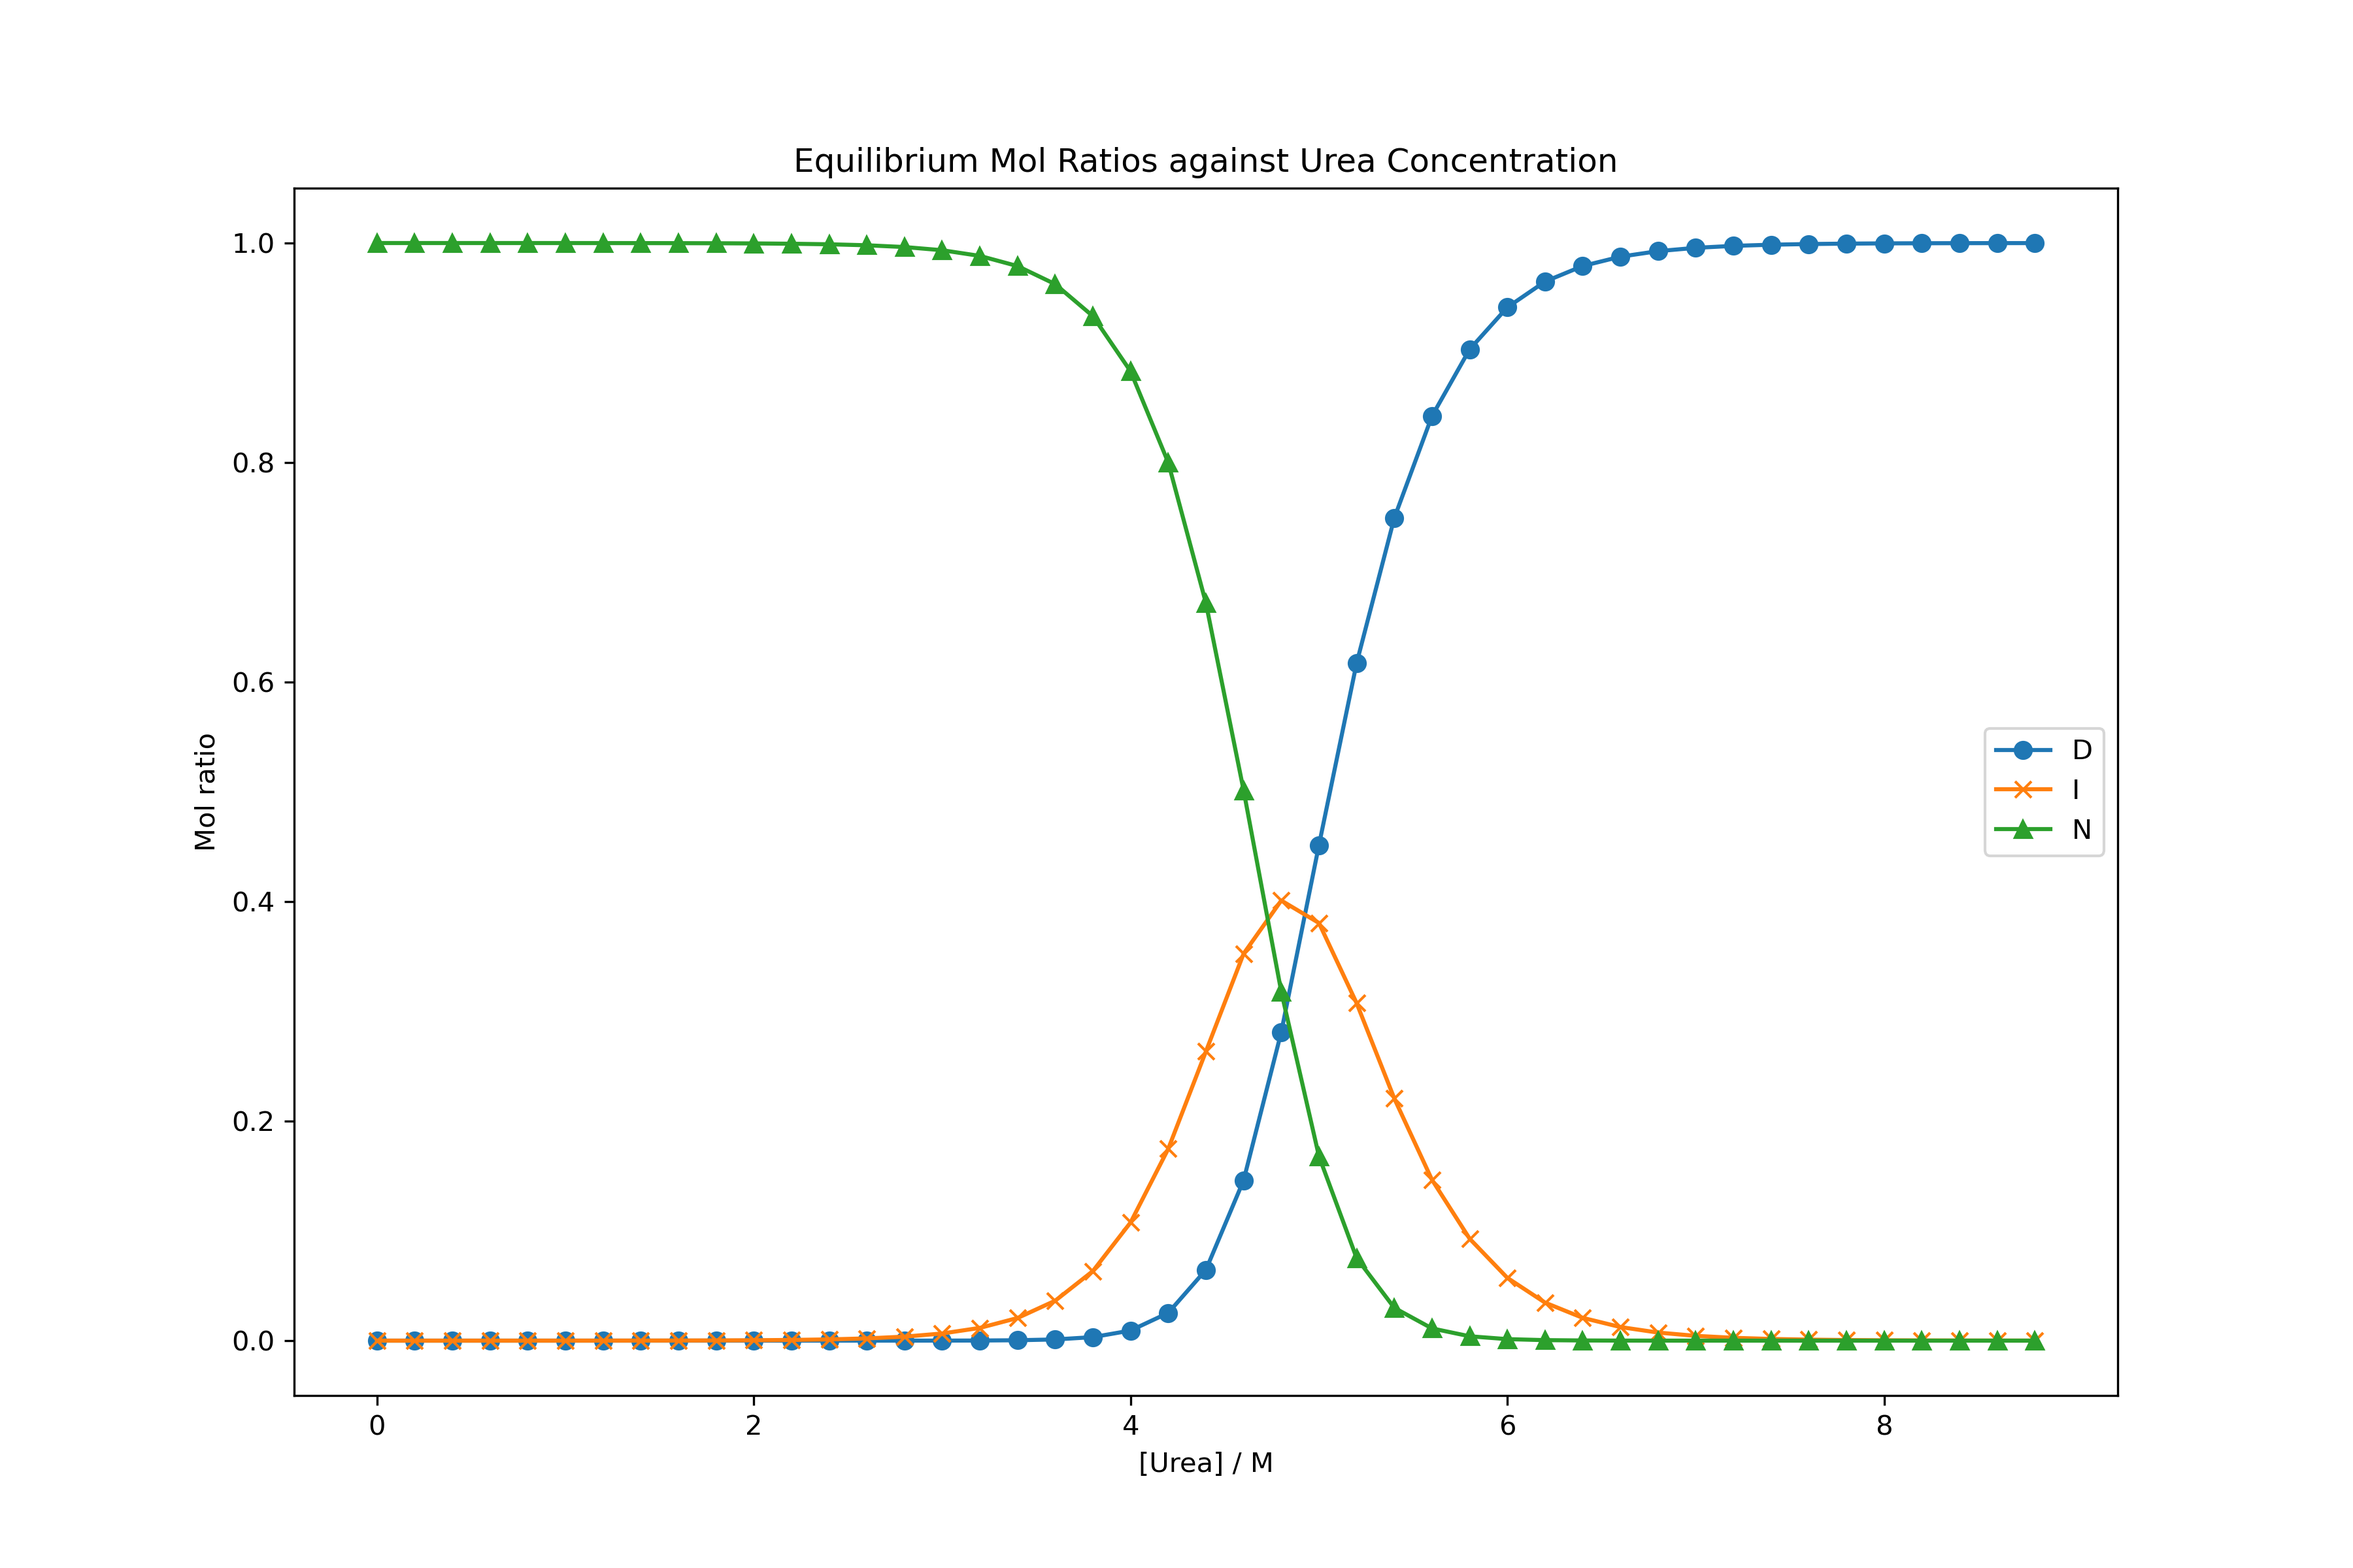
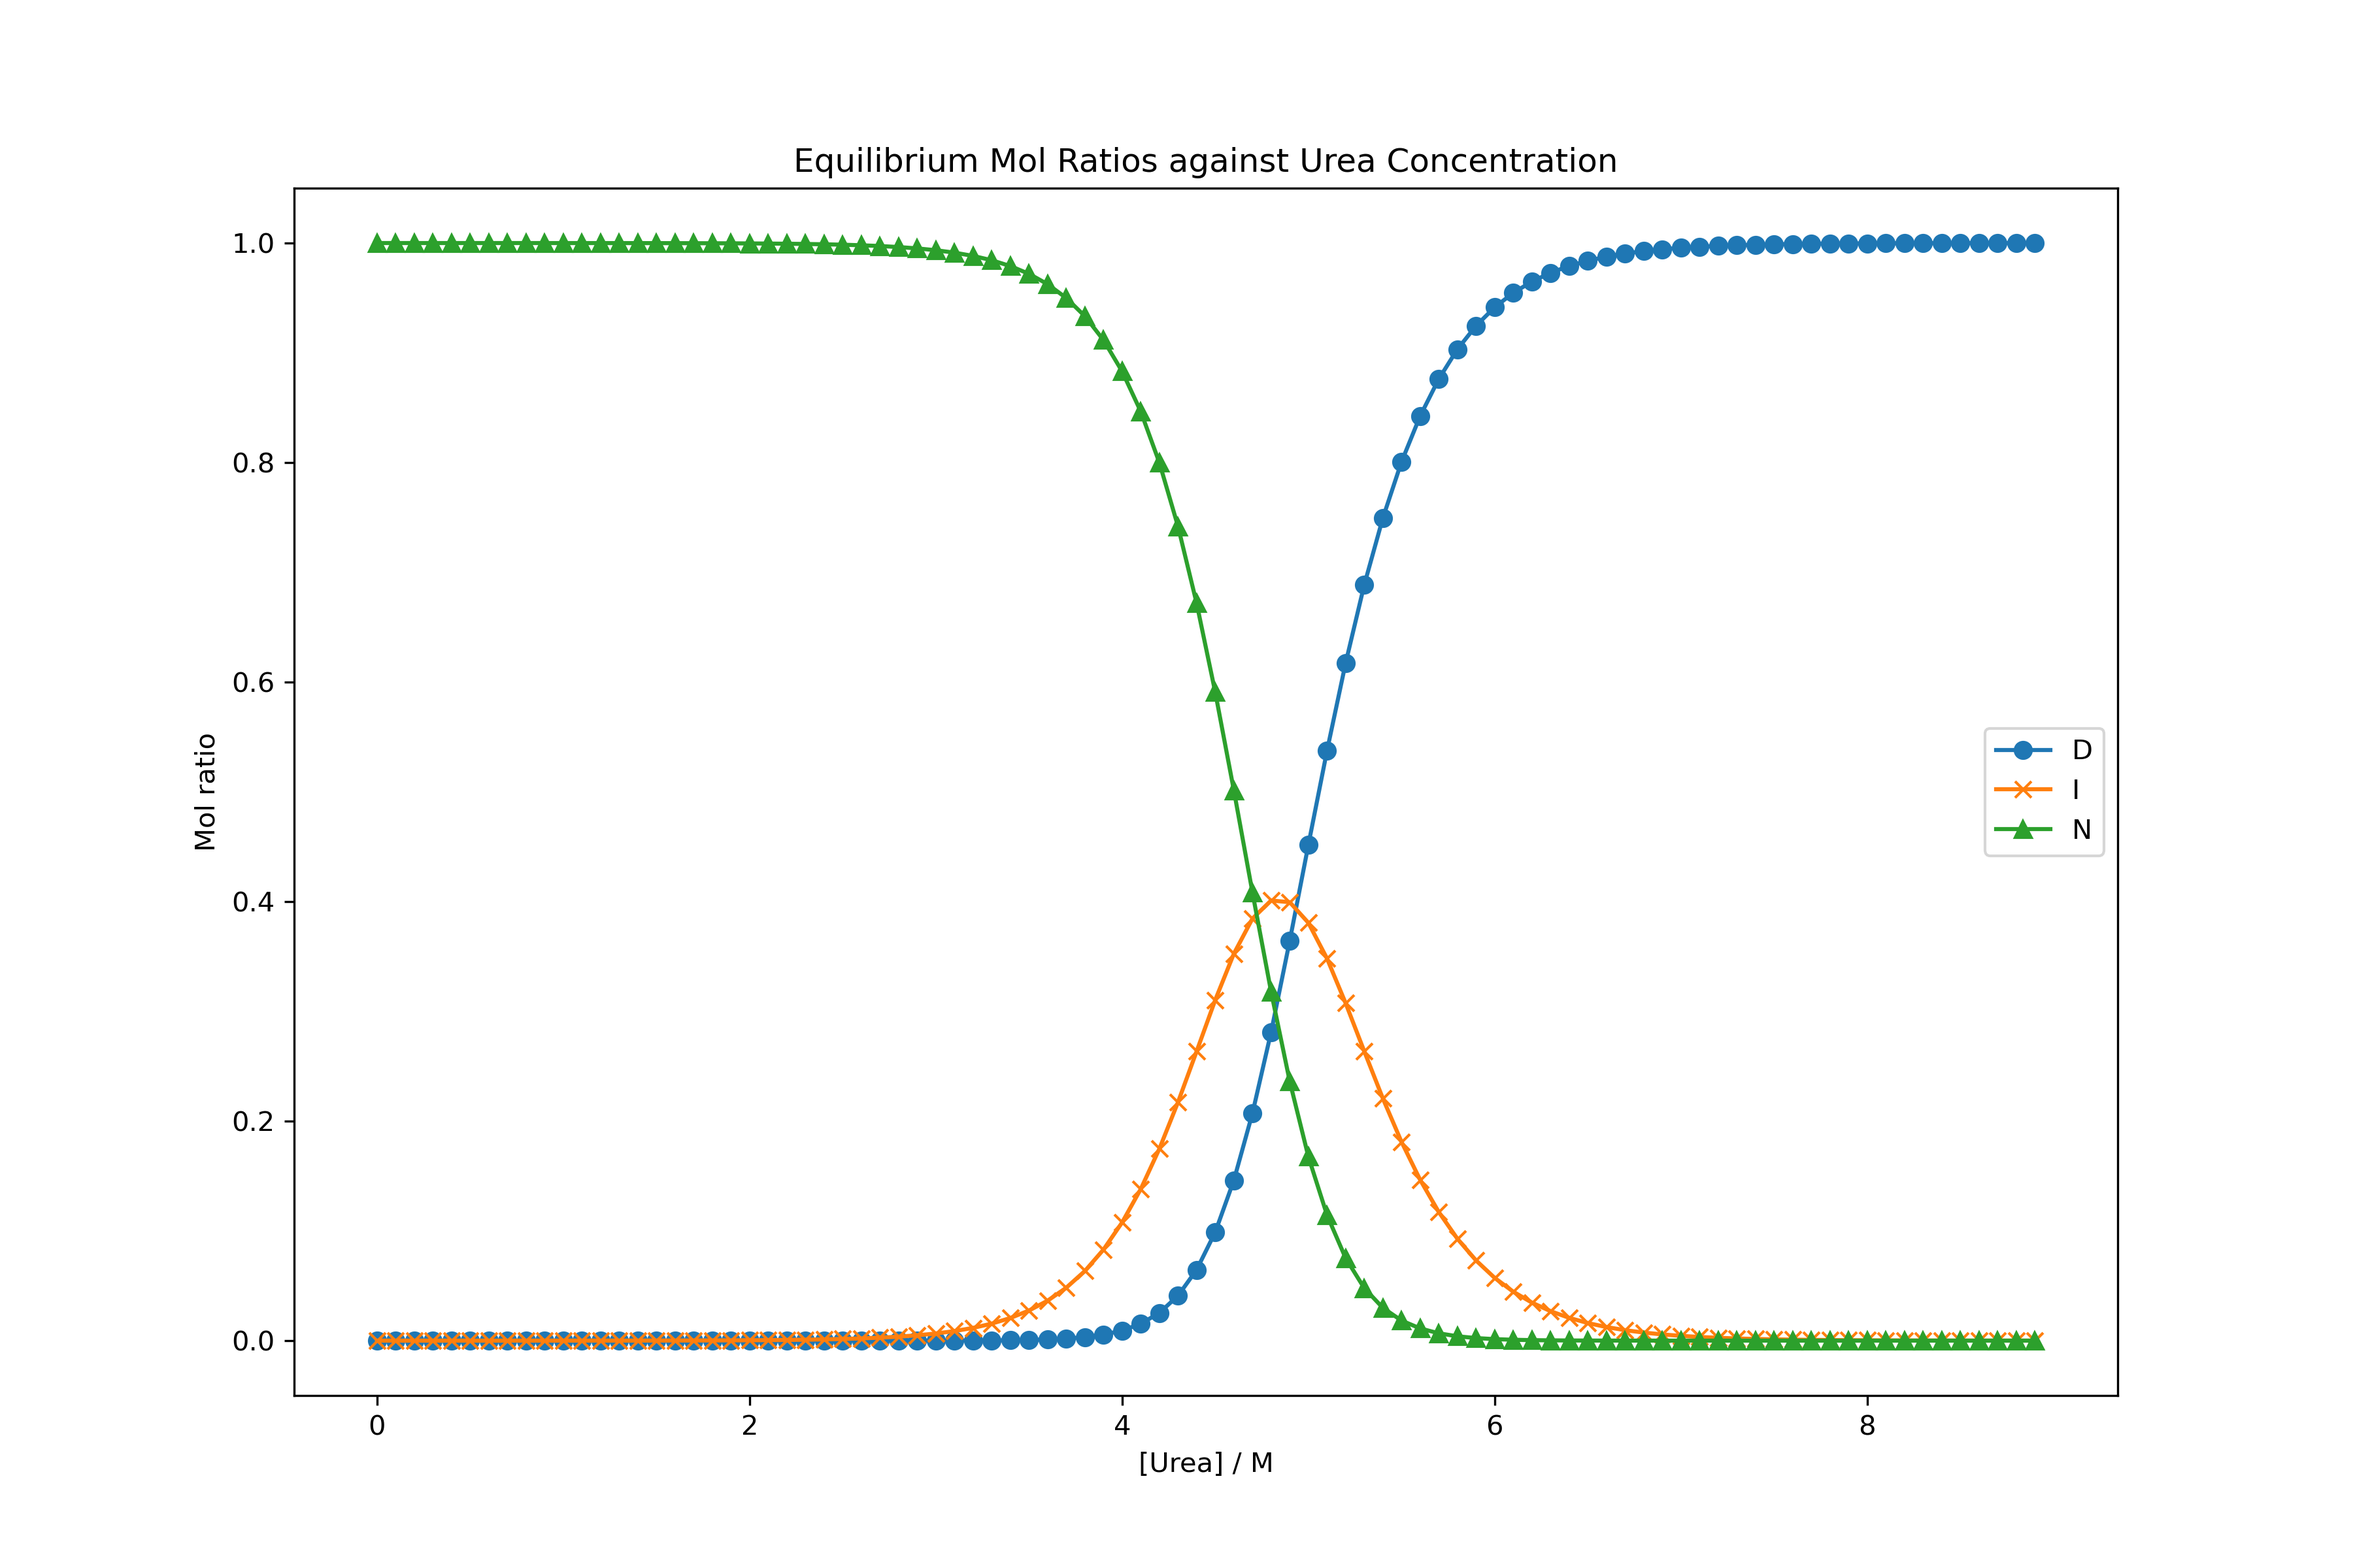
Renamed files, finished prac3.1

diff --git a/prac3.1.py b/prac3.1.py
@@ -2,6 +2,7 @@ import pandas as pd
 import pickle
 from scipy.integrate import solve_ivp
 import numpy as np
+import os
 
 def fold(urea):
     "This does the folding simulation"
@@ -16,7 +17,7 @@ def fold(urea):
     f_mat = np.array([[-k[0], k[1], 0],[k[0], -k[1]-k[2], k[3]], [0, k[2], -k[3]]])
 
     ## Parameters for the integration
-    tmin, tmax, dt = 0, 5, pow(10, -6)
+    tmin, tmax, dt = 0, 5, pow(10, -2)
     delta_t, length = 1, 1
 
     ## Threshold for equilibrium
@@ -28,7 +29,7 @@ def fold(urea):
     sol_tot = np.empty((3,1))
     t_tot = np.empty((1))
 
-    ## Defines the ODE function in one line
+    ## use lamda to define the ODE function in one line
     F = lambda t, st: np.dot(f_mat, st)
 
     ## keep integrating over the next time interval until equilibrium is reached
@@ -37,11 +38,14 @@ def fold(urea):
         tmax += delta_t
         t_eval = np.arange(tmin,tmax,dt)
 
-        ## Scipy solve_ivp function to give solution
+        ## Scipy solve_ivp function to give solution. LSODA is a good all purpose method
         sol = solve_ivp(F, [tmin, tmax], State, t_eval=t_eval, method = "LSODA")
 
+        ## Take the index of the final iteration solution and feed it as initial conditions into next interval
         end_pos = len(sol.y[0]) - 1
         S_new = np.array([sol.y[0][end_pos], sol.y[1][end_pos], sol.y[2][end_pos]])
+
+        # Calculate the amount of change from the last time interval to see if equilibrium reached
         length = abs(S_new[0] - State[0]) + abs(S_new[1] - State[1]) + abs(S_new[2] - State[2])
 
         State = S_new
@@ -50,29 +54,35 @@ def fold(urea):
         t_tot = np.concatenate((t_tot, np.array(sol.t)))
         tmin = tmax
 
-    ## concantenating arrays is weird; first row needs to be deleted
+    ## concatenating arrays is weird; first row needs to be deleted
     sol_tot = np.delete(sol_tot, 0, axis = 1)
     t_tot = np.delete(t_tot, 0, axis = 0)
 
-    ## Prints the amount of time needed before equilibrium reached for each run
+    ## Prints the amount of intervals needed before equilibrium reached for each run
     print(tmax)
     return State, sol_tot, t_tot
 
 def save_fold():
 
     D, I, N = [], [], []
-    urea = np.arange(0,9,0.2)
 
-    ## Iterate over urea concentrations
+    urea_step = 0.1
+    urea = np.arange(0,9,urea_step)
+
+    ## Iterate over urea concentrations and run the folding simulation
     for u in urea:
         St, sol_tot, t_tot = fold(u)
         D.append(St[0])
         I.append(St[1])
         N.append(St[2])
 
+    ## Write data to a .dat file (for the quantity of data here this is ok)
     with open("folding.dat", "w") as f:
         f.write("# U \t D \t I \t N \n") 
         for udin in zip(urea, D, I, N): 
             f.write("\t".join([str(n) for n in udin])+ "\n")
 
 save_fold()
+
+## Run the script to show the plot
+os.system("python3 prac3.1plot.py")

diff --git a/prac3.2.py b/prac3.2.py
@@ -3,41 +3,28 @@ import numpy as np
 import pandas as pd
 import pickle
 import time
-from numba import jit, float64
+from numba import jit
 
-## state = np.array([r1,r3, -1 * r1 -r2,r4,-1 * r1 + r2 -r3 - 2 * r4,
-##                  r1 + r2 + r5, -1 * r3 - r5])
 @jit(nopython=True)
 def ODE_func(t, state, k1, k2, k3, k4 ,k5):
     "returns d(state)/dt for the integrator"
-    ##        A, B, P, Q, X, Y, Z
+    ## []     A, B, P, Q, X, Y, Z
     ## state: 0, 1, 2, 3, 4, 5, 6
-    ## Sacrificing some readability for speed here: creating arrays is slow
+    ## r refers to rates of each reaction
 
     r1 = -1. * k1 * state[0] * state[5]
     r2 = -1. * k2 * state[4] * state[5]
     r3 = -1. * k3 * state[1] * state[4]
     r4 = k4 * state[4] * state[4]
     r5 = k5 * state[6]
-    """
-    This, oddly, does not work, something to do with how variables are stored, which is a shame
-    because it would be much faster with numba if it did
-    state[0] = r1
-    state[1] = r3
-    state[2] = (-1 * r1) - r2
-    state[3] = r4
-    state[4] = (-1 * r1) + r2 - r3 - (2 * r4)
-    state[5] =  r1 + r2 + r5
-    state[6] = (-1 * r3) - r5
-    """ 
-    return [r1,r3, -1. * r1 -r2,r4,-1. * r1 + r2 -r3 - 2 * r4, r1 + r2 + r5, -1. * r3 - r5]
+
+    return [r1, r3, -1. * r1 -r2, r4, -1. * r1 + r2 -r3 - 2 * r4, r1 + r2 + r5, -1. * r3 - r5]
 
 
 def getjac(t, state, k1, k2, k3, k4, k5):
     """Jacobian = df_i / dy_j ; needed here to obtain reasonable results with
     the stiff solver method Radau. it is actually slower to use jit here because
     creating numpy arrays with numba is very slow"""
-
 
     jac = np.zeros((7,7))
     jac[0][0] = -1 * k1 * state[5]
